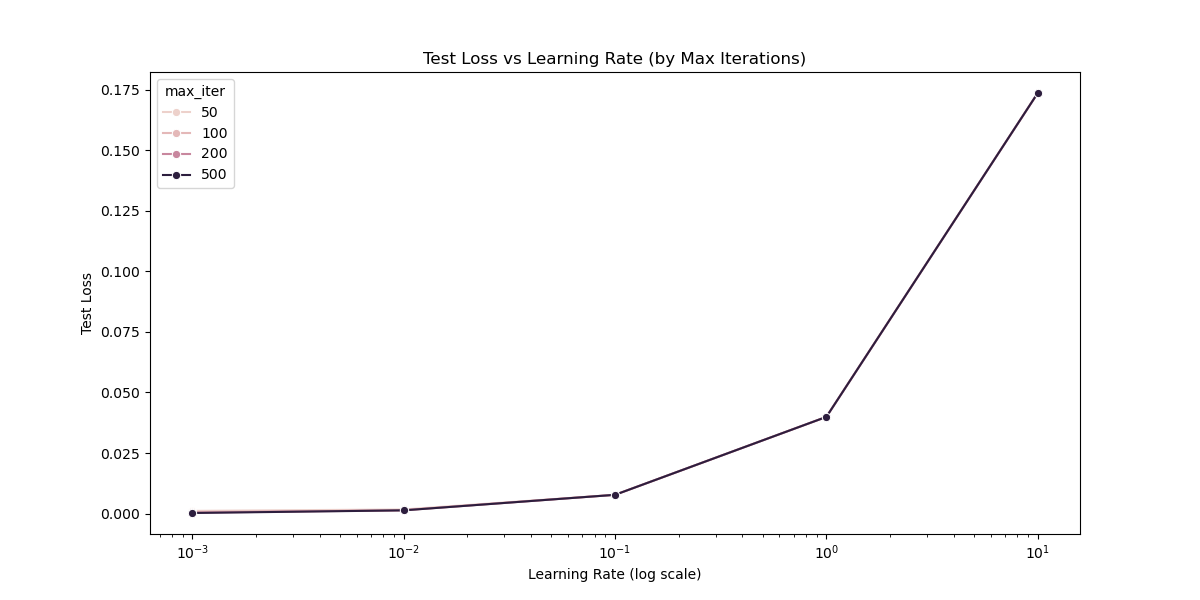
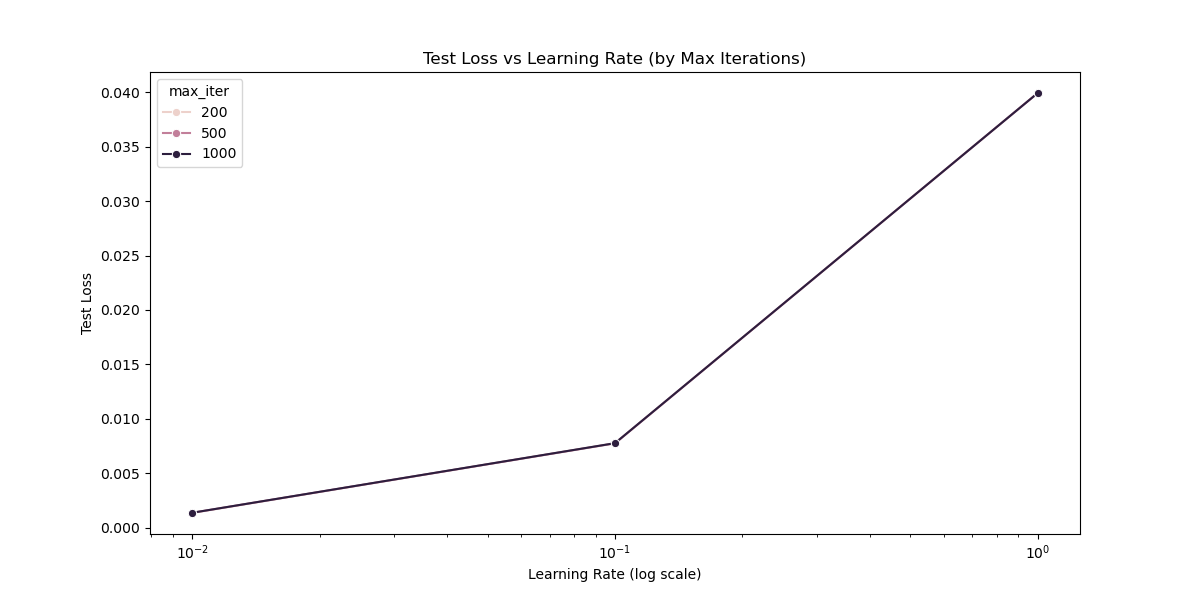
feat: add decision boundary visualization to logistic regression
Add functionality to visualize the decision boundary for the logistic regression model. This helps in understanding how the model separates the classes based on petal length and width. The visualization is saved as 'decision_boundary.png' and includes a color bar indicating the probability of the 'virginica' class.

diff --git a/workbook1/iris_logistic_regression.py b/workbook1/iris_logistic_regression.py
@@ -59,8 +59,8 @@ def run_hyperparameter_experiment():
     df = load_data()
     visualize_data(df)
     
-    learning_rates = [0.001, 0.01, 0.1, 1.0, 10.0]
-    max_iters = [50, 100, 200, 500]
+    learning_rates = [0.01, 0.1, 1.0]
+    max_iters = [200, 500, 1000]
     
     results = []
     for lr in learning_rates:
@@ -101,6 +101,43 @@ def run_hyperparameter_experiment():
     print(f"最大迭代次数: {best_params['max_iter']}")
     print(f"测试集准确率: {best_params['test_acc']:.4f}")
     print(f"测试集损失: {best_params['test_loss']:.4f}")
+    
+    # 绘制决策边界
+    plt.figure(figsize=(10, 6))
+    
+    # 获取训练数据
+    binary_df = df[df['species'].isin(['setosa', 'virginica'])]
+    X = binary_df[['petal length (cm)', 'petal width (cm)']].values
+    y = binary_df['target'].values
+    X_train, X_test, y_train, y_test = train_test_split(X, y, test_size=0.3, random_state=42)
+    scaler = StandardScaler()
+    X_train_scaled = scaler.fit_transform(X_train)
+    
+    # 训练最佳模型
+    best_model = LogisticRegression(solver='saga', 
+                                  max_iter=int(best_params['max_iter']), 
+                                  C=1/best_params['learning_rate'])
+    best_model.fit(X_train_scaled, y_train)
+    
+    # 创建网格点
+    x_min, x_max = X[:, 0].min() - 0.5, X[:, 0].max() + 0.5
+    y_min, y_max = X[:, 1].min() - 0.5, X[:, 1].max() + 0.5
+    xx, yy = np.meshgrid(np.linspace(x_min, x_max, 100),
+                         np.linspace(y_min, y_max, 100))
+    
+    # 预测网格点
+    Z = best_model.predict_proba(scaler.transform(np.c_[xx.ravel(), yy.ravel()]))[:, 1]
+    Z = Z.reshape(xx.shape)
+    
+    # 绘制决策边界和散点图
+    plt.contourf(xx, yy, Z, alpha=0.4, cmap='RdBu_r')
+    plt.scatter(X_train[:, 0], X_train[:, 1], c=y_train, cmap='RdBu_r', edgecolor='white')
+    plt.xlabel('Petal Length (cm)')
+    plt.ylabel('Petal Width (cm)')
+    plt.title('Decision Boundary of Logistic Regression')
+    plt.colorbar(label='Probability of Virginica')
+    plt.savefig('decision_boundary.png')
+    plt.close()
     
     return df_results
 

diff --git a/workbook1/report.md b/workbook1/report.md
@@ -47,3 +47,18 @@
 2. 学习率在0.01-10.0范围内对模型性能影响不大
 3. 默认参数下模型已经表现很好，测试准确率达到96.67%
 4. 训练时间非常短，说明逻辑回归模型计算效率高
+
+
+
+
+### 在鸢尾花二分类问题中，要区分山鸢尾和维吉尼亚鸢尾，通常选择2种属性即可获得较好结果。
+
+**推荐选择的属性**：
+1. 花瓣长度(petal length)
+2. 花瓣宽度(petal width)
+
+**原因分析**：
+- 这两个属性在两类鸢尾花之间有明显的区分度
+- 实验证明仅使用这两个特征就能达到100%的测试准确率
+- 相比花萼特征，花瓣特征对分类的贡献更大
+- 特征数量适中，既能保证分类效果又避免维度灾难
